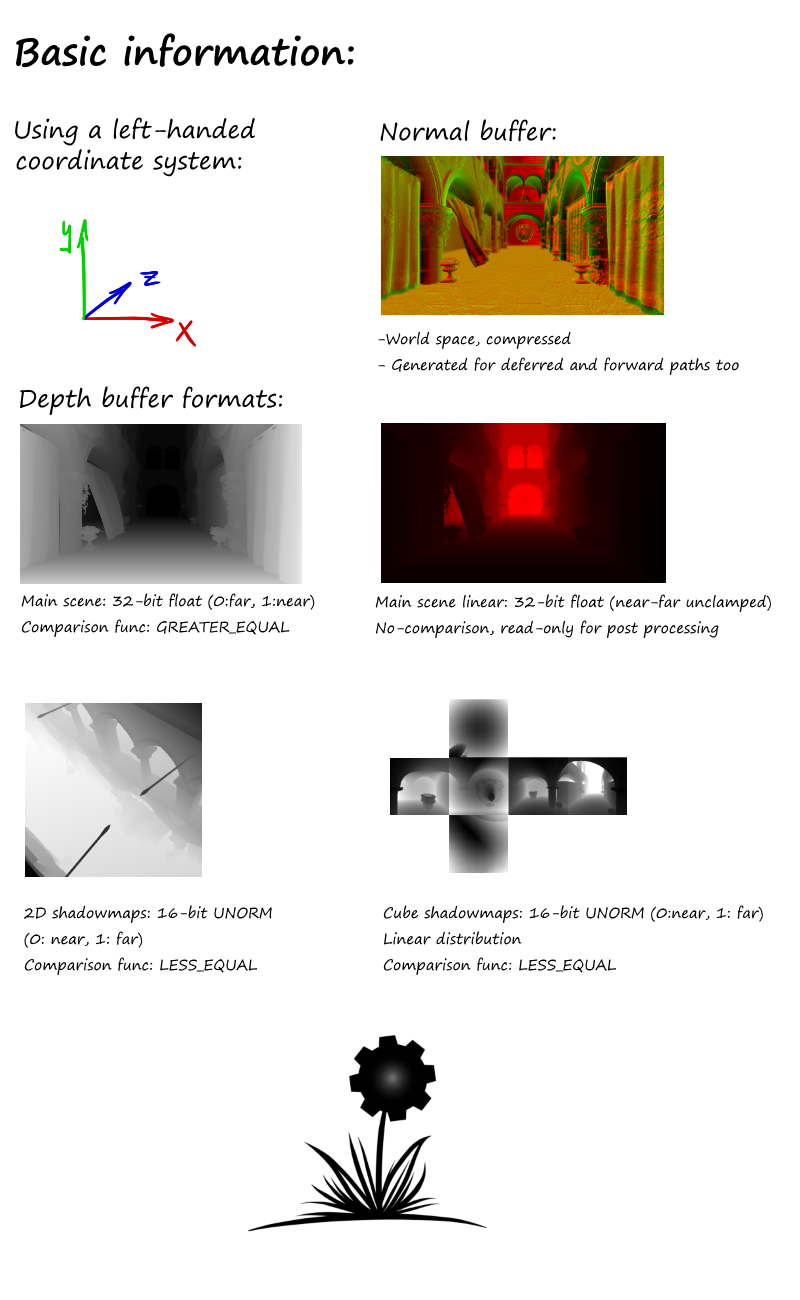
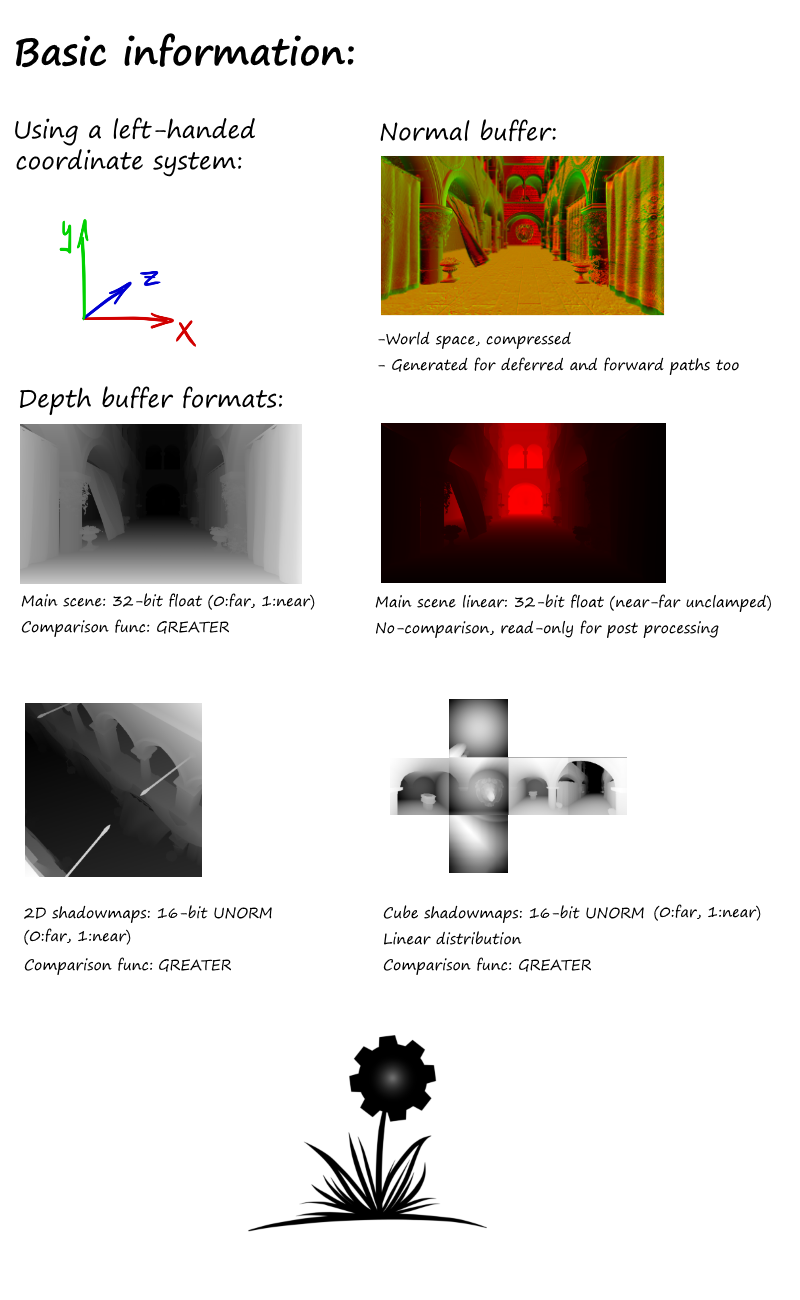
shadows maps are now using reversed z-buffer too

diff --git a/WickedEngine/wiRenderer.cpp b/WickedEngine/wiRenderer.cpp
@@ -979,18 +979,21 @@ void wiRenderer::SetUpStates()
 	samplerDesc.AddressU = TEXTURE_ADDRESS_WRAP;
 	samplerDesc.AddressV = TEXTURE_ADDRESS_WRAP;
 	samplerDesc.AddressW = TEXTURE_ADDRESS_WRAP;
+	samplerDesc.MaxAnisotropy = 16;
 	GetDevice()->CreateSamplerState(&samplerDesc, samplers[SSLOT_ANISO_WRAP]);
 	
 	samplerDesc.Filter = FILTER_ANISOTROPIC;
 	samplerDesc.AddressU = TEXTURE_ADDRESS_MIRROR;
 	samplerDesc.AddressV = TEXTURE_ADDRESS_MIRROR;
 	samplerDesc.AddressW = TEXTURE_ADDRESS_MIRROR;
+	samplerDesc.MaxAnisotropy = 16;
 	GetDevice()->CreateSamplerState(&samplerDesc, samplers[SSLOT_ANISO_MIRROR]);
 
 	samplerDesc.Filter = FILTER_ANISOTROPIC;
 	samplerDesc.AddressU = TEXTURE_ADDRESS_WRAP;
 	samplerDesc.AddressV = TEXTURE_ADDRESS_WRAP;
 	samplerDesc.AddressW = TEXTURE_ADDRESS_WRAP;
+	samplerDesc.MaxAnisotropy = 16;
 	GetDevice()->CreateSamplerState(&samplerDesc, samplers[SSLOT_OBJECTSHADER]);
 
 	ZeroMemory( &samplerDesc, sizeof(SamplerDesc) );
@@ -999,8 +1002,8 @@ void wiRenderer::SetUpStates()
 	samplerDesc.AddressV = TEXTURE_ADDRESS_CLAMP;
 	samplerDesc.AddressW = TEXTURE_ADDRESS_CLAMP;
 	samplerDesc.MipLODBias = 0.0f;
-	samplerDesc.MaxAnisotropy = 16;
-	samplerDesc.ComparisonFunc = COMPARISON_LESS_EQUAL;
+	samplerDesc.MaxAnisotropy = 0;
+	samplerDesc.ComparisonFunc = COMPARISON_GREATER_EQUAL;
 	GetDevice()->CreateSamplerState(&samplerDesc, samplers[SSLOT_CMP_DEPTH]);
 
 	for (int i = 0; i < SSTYPE_LAST; ++i)
@@ -1049,7 +1052,7 @@ void wiRenderer::SetUpStates()
 	rs.FrontCounterClockwise=true;
 	rs.DepthBias=0;
 	rs.DepthBiasClamp=0;
-	rs.SlopeScaledDepthBias = 4.0f;
+	rs.SlopeScaledDepthBias = -2.0f;
 	rs.DepthClipEnable=true;
 	rs.ScissorEnable=false;
 	rs.MultisampleEnable=false;
@@ -1062,7 +1065,7 @@ void wiRenderer::SetUpStates()
 	rs.FrontCounterClockwise=true;
 	rs.DepthBias=0;
 	rs.DepthBiasClamp=0;
-	rs.SlopeScaledDepthBias = 5.0f;
+	rs.SlopeScaledDepthBias = -2.0f;
 	rs.DepthClipEnable=true;
 	rs.ScissorEnable=false;
 	rs.MultisampleEnable=false;
@@ -1173,7 +1176,7 @@ void wiRenderer::SetUpStates()
 	DepthStencilStateDesc dsd;
 	dsd.DepthEnable = true;
 	dsd.DepthWriteMask = DEPTH_WRITE_MASK_ALL;
-	dsd.DepthFunc = COMPARISON_GREATER_EQUAL;
+	dsd.DepthFunc = COMPARISON_GREATER;
 
 	dsd.StencilEnable = true;
 	dsd.StencilReadMask = 0xFF;
@@ -1190,7 +1193,7 @@ void wiRenderer::SetUpStates()
 
 	dsd.DepthEnable = true;
 	dsd.DepthWriteMask = DEPTH_WRITE_MASK_ALL;
-	dsd.DepthFunc = COMPARISON_LESS_EQUAL;
+	dsd.DepthFunc = COMPARISON_GREATER;
 	dsd.StencilEnable = false;
 	GetDevice()->CreateDepthStencilState(&dsd, depthStencils[DSSTYPE_SHADOW]);
 
@@ -1201,7 +1204,7 @@ void wiRenderer::SetUpStates()
 	dsd.StencilEnable = false;
 	dsd.StencilReadMask = 0xFF;
 	dsd.StencilWriteMask = 0xFF;
-	dsd.FrontFace.StencilFunc = COMPARISON_LESS_EQUAL;
+	dsd.FrontFace.StencilFunc = COMPARISON_LESS;
 	dsd.FrontFace.StencilPassOp = STENCIL_OP_KEEP;
 	dsd.FrontFace.StencilFailOp = STENCIL_OP_KEEP;
 	dsd.FrontFace.StencilDepthFailOp = STENCIL_OP_KEEP;
@@ -1249,7 +1252,7 @@ void wiRenderer::SetUpStates()
 	dsd.DepthWriteMask = DEPTH_WRITE_MASK_ALL;
 	dsd.DepthEnable = false;
 	dsd.StencilEnable = true;
-	dsd.DepthFunc = COMPARISON_GREATER_EQUAL;
+	dsd.DepthFunc = COMPARISON_GREATER;
 	dsd.StencilReadMask = 0xFF;
 	dsd.StencilWriteMask = 0x00;
 	dsd.FrontFace.StencilFunc = COMPARISON_EQUAL;
@@ -1266,7 +1269,7 @@ void wiRenderer::SetUpStates()
 	dsd.DepthEnable = true;
 	dsd.StencilEnable = false;
 	dsd.DepthWriteMask = DEPTH_WRITE_MASK_ZERO;
-	dsd.DepthFunc = COMPARISON_GREATER_EQUAL;
+	dsd.DepthFunc = COMPARISON_GREATER;
 	GetDevice()->CreateDepthStencilState(&dsd, depthStencils[DSSTYPE_DEPTHREAD]);
 
 	dsd.DepthEnable = false;
@@ -1288,7 +1291,7 @@ void wiRenderer::SetUpStates()
 
 	dsd.DepthEnable = true;
 	dsd.DepthWriteMask = DEPTH_WRITE_MASK_ALL;
-	dsd.DepthFunc = COMPARISON_LESS_EQUAL;
+	dsd.DepthFunc = COMPARISON_GREATER;
 	GetDevice()->CreateDepthStencilState(&dsd, depthStencils[DSSTYPE_ENVMAP]);
 
 
@@ -3340,7 +3343,7 @@ void wiRenderer::DrawForShadowMap(GRAPHICSTHREAD threadID)
 								if (!culledRenderer.empty())
 								{
 									GetDevice()->BindRenderTargets(0, nullptr, Light::shadowMapArray_2D, threadID, l->shadowMap_index + index);
-									GetDevice()->ClearDepthStencil(Light::shadowMapArray_2D, CLEAR_DEPTH, 1.0f, 0, threadID, l->shadowMap_index + index);
+									GetDevice()->ClearDepthStencil(Light::shadowMapArray_2D, CLEAR_DEPTH, 0.0f, 0, threadID, l->shadowMap_index + index);
 
 									CameraCB cb;
 									cb.mVP = l->shadowCam_dirLight[index].getVP();
@@ -3359,7 +3362,7 @@ void wiRenderer::DrawForShadowMap(GRAPHICSTHREAD threadID)
 						shadowCounter_2D++; // shadow indices are already complete so a shadow slot is consumed here even if no rendering actually happens!
 
 						Frustum frustum;
-						frustum.ConstructFrustum(l->shadowCam_spotLight[0].farplane, l->shadowCam_spotLight[0].Projection, l->shadowCam_spotLight[0].View);
+						frustum.ConstructFrustum(l->shadowCam_spotLight[0].farplane, l->shadowCam_spotLight[0].realProjection, l->shadowCam_spotLight[0].View);
 						if (spTree != nullptr)
 						{
 							CulledList culledObjects;
@@ -3376,7 +3379,7 @@ void wiRenderer::DrawForShadowMap(GRAPHICSTHREAD threadID)
 							if (!culledRenderer.empty())
 							{
 								GetDevice()->BindRenderTargets(0, nullptr, Light::shadowMapArray_2D, threadID, l->shadowMap_index);
-								GetDevice()->ClearDepthStencil(Light::shadowMapArray_2D, CLEAR_DEPTH, 1.0f, 0, threadID, l->shadowMap_index);
+								GetDevice()->ClearDepthStencil(Light::shadowMapArray_2D, CLEAR_DEPTH, 0.0f, 0, threadID, l->shadowMap_index);
 
 								CameraCB cb;
 								cb.mVP = l->shadowCam_spotLight[0].getVP();
@@ -3413,7 +3416,7 @@ void wiRenderer::DrawForShadowMap(GRAPHICSTHREAD threadID)
 							if (!culledRenderer.empty())
 							{
 								GetDevice()->BindRenderTargets(0, nullptr, Light::shadowMapArray_Cube, threadID, l->shadowMap_index);
-								GetDevice()->ClearDepthStencil(Light::shadowMapArray_Cube, CLEAR_DEPTH, 1.0f, 0, threadID, l->shadowMap_index);
+								GetDevice()->ClearDepthStencil(Light::shadowMapArray_Cube, CLEAR_DEPTH, 0.0f, 0, threadID, l->shadowMap_index);
 
 								MiscCB miscCb;
 								miscCb.mColor = XMFLOAT4(l->translation.x, l->translation.y, l->translation.z, 1.0f / l->GetRange()); // reciprocal range, to avoid division in shader

diff --git a/WickedEngine/wiLoader.h b/WickedEngine/wiLoader.h
@@ -782,6 +782,7 @@ private:
 };
 struct SHCAM{	
 	XMFLOAT4X4 View,Projection;
+	XMFLOAT4X4 realProjection; // because reverse zbuffering projection complicates things...
 	XMFLOAT3 Eye,At,Up;
 	float nearplane,farplane,size;
 
@@ -818,13 +819,17 @@ struct SHCAM{
 		XMStoreFloat4x4( &View, rView);
 	}
 	void Create_Ortho(float size){
-		XMMATRIX rProjection = XMMatrixOrthographicOffCenterLH(-size*0.5f,size*0.5f,-size*0.5f,size*0.5f,nearplane,farplane);
+		XMMATRIX rProjection = XMMatrixOrthographicOffCenterLH(-size*0.5f,size*0.5f,-size*0.5f,size*0.5f,farplane,nearplane);
 		XMStoreFloat4x4( &Projection, rProjection);
+		rProjection = XMMatrixOrthographicOffCenterLH(-size*0.5f, size*0.5f, -size*0.5f, size*0.5f, nearplane, farplane);
+		XMStoreFloat4x4(&realProjection, rProjection);
 		this->size=size;
 	}
 	void Create_Perspective(float fov){
-		XMMATRIX rProjection = XMMatrixPerspectiveFovLH(fov,1,nearplane,farplane);
-		XMStoreFloat4x4( &Projection, rProjection);
+		XMMATRIX rProjection = XMMatrixPerspectiveFovLH(fov,1,farplane,nearplane);
+		XMStoreFloat4x4( &Projection, rProjection); 
+		rProjection = XMMatrixPerspectiveFovLH(fov, 1, nearplane, farplane);
+		XMStoreFloat4x4(&realProjection, rProjection);
 	}
 	void Update(const XMVECTOR& pos){
 		XMStoreFloat4x4( &View , XMMatrixTranslationFromVector(-pos) 

diff --git a/WickedEngine/wiDepthTarget.cpp b/WickedEngine/wiDepthTarget.cpp
@@ -79,8 +79,7 @@ void wiDepthTarget::InitializeCube(int size, bool independentFaces)
 
 void wiDepthTarget::Clear(GRAPHICSTHREAD threadID)
 {
-	float depthClear = GetDesc().MiscFlags & RESOURCE_MISC_TEXTURECUBE ? 1.0f : 0.0f;
-	wiRenderer::GetDevice()->ClearDepthStencil(GetTexture(), CLEAR_DEPTH | CLEAR_STENCIL, depthClear, 0, threadID);
+	wiRenderer::GetDevice()->ClearDepthStencil(GetTexture(), CLEAR_DEPTH | CLEAR_STENCIL, 0.0f, 0, threadID);
 	resolvedMSAAUptodate = false;
 }
 void wiDepthTarget::CopyFrom(const wiDepthTarget& from, GRAPHICSTHREAD threadID)

diff --git a/WickedEngine/wiVersion.cpp b/WickedEngine/wiVersion.cpp
@@ -9,7 +9,7 @@ namespace wiVersion
 	// minor features, major updates
 	const int minor = 13;
 	// minor bug fixes, alterations, refactors, updates
-	const int revision = 38;
+	const int revision = 39;
 
 
 	long GetVersion()
